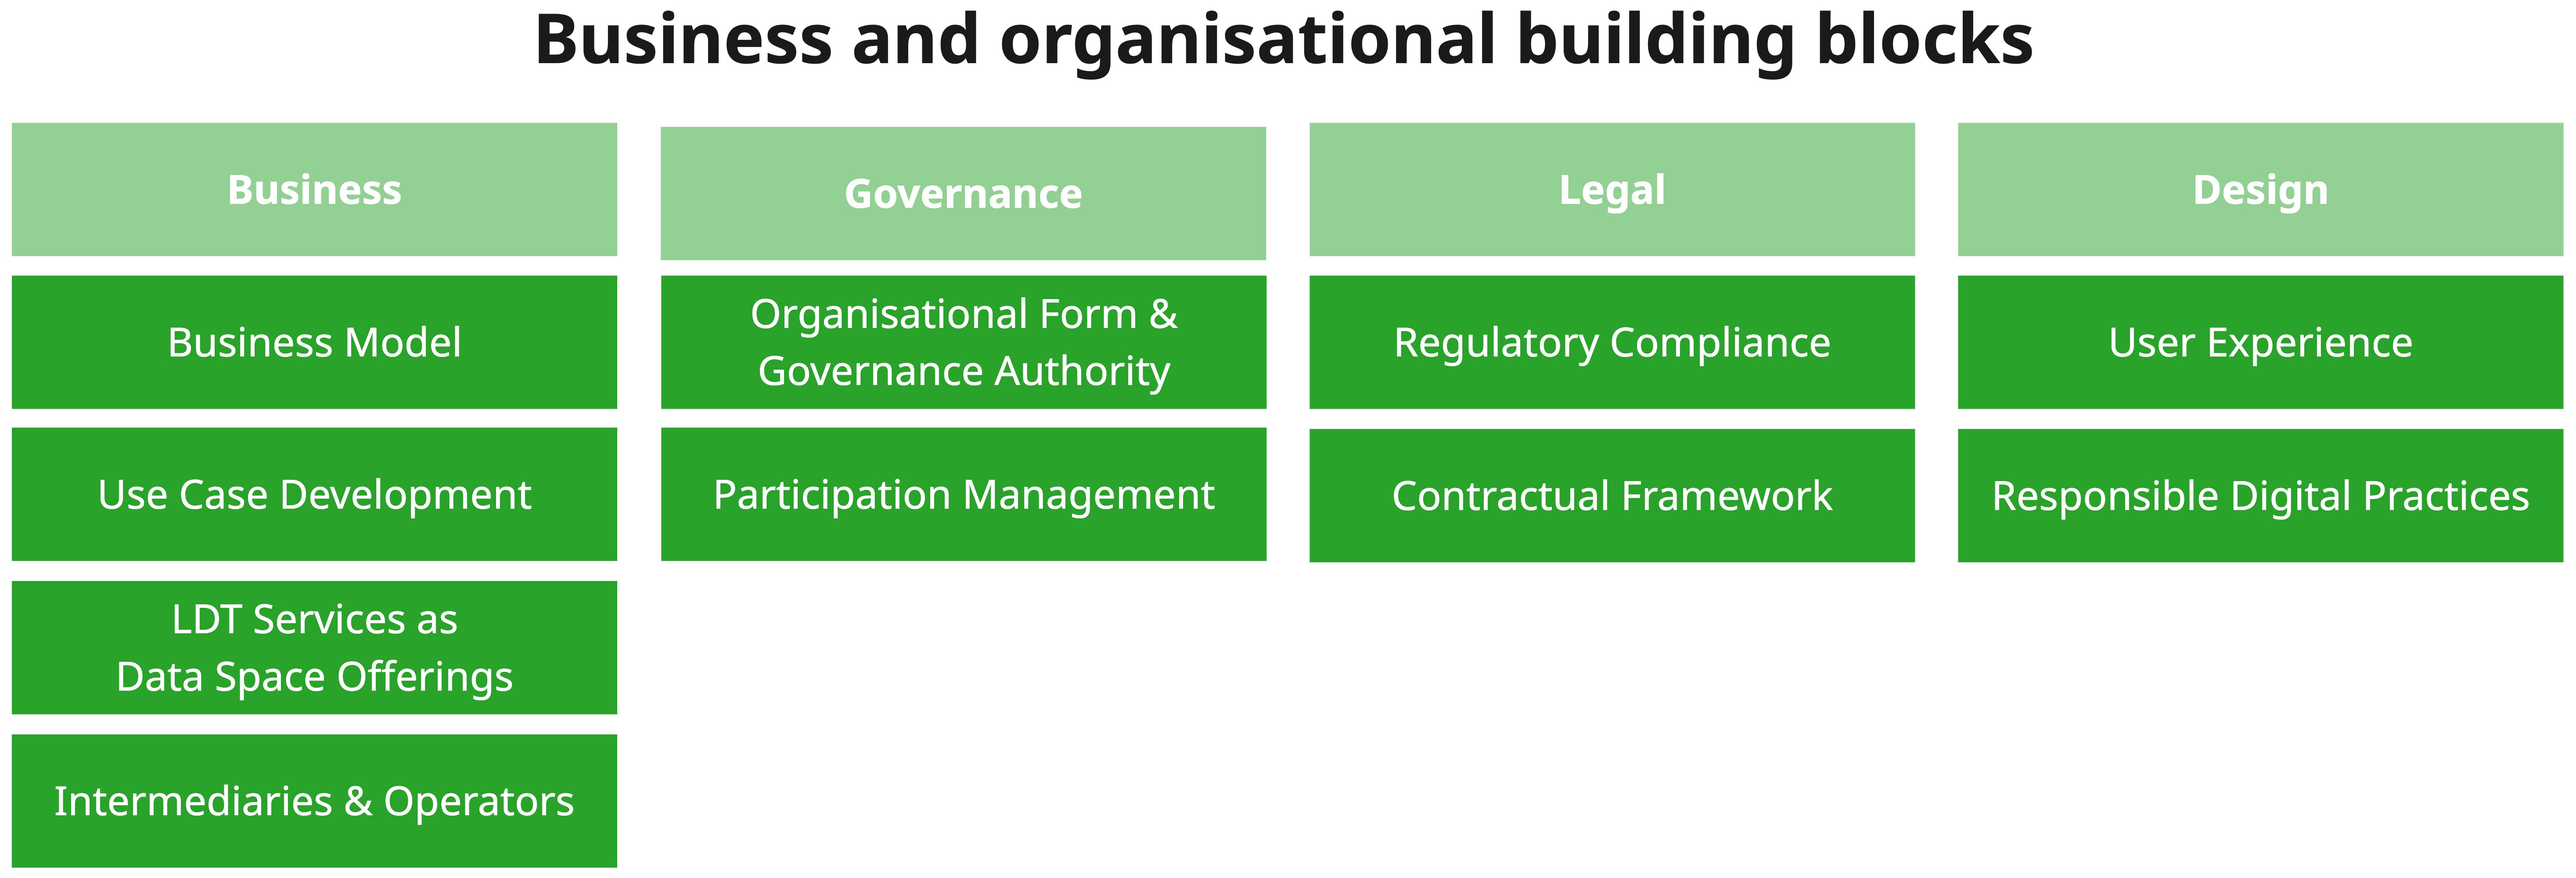
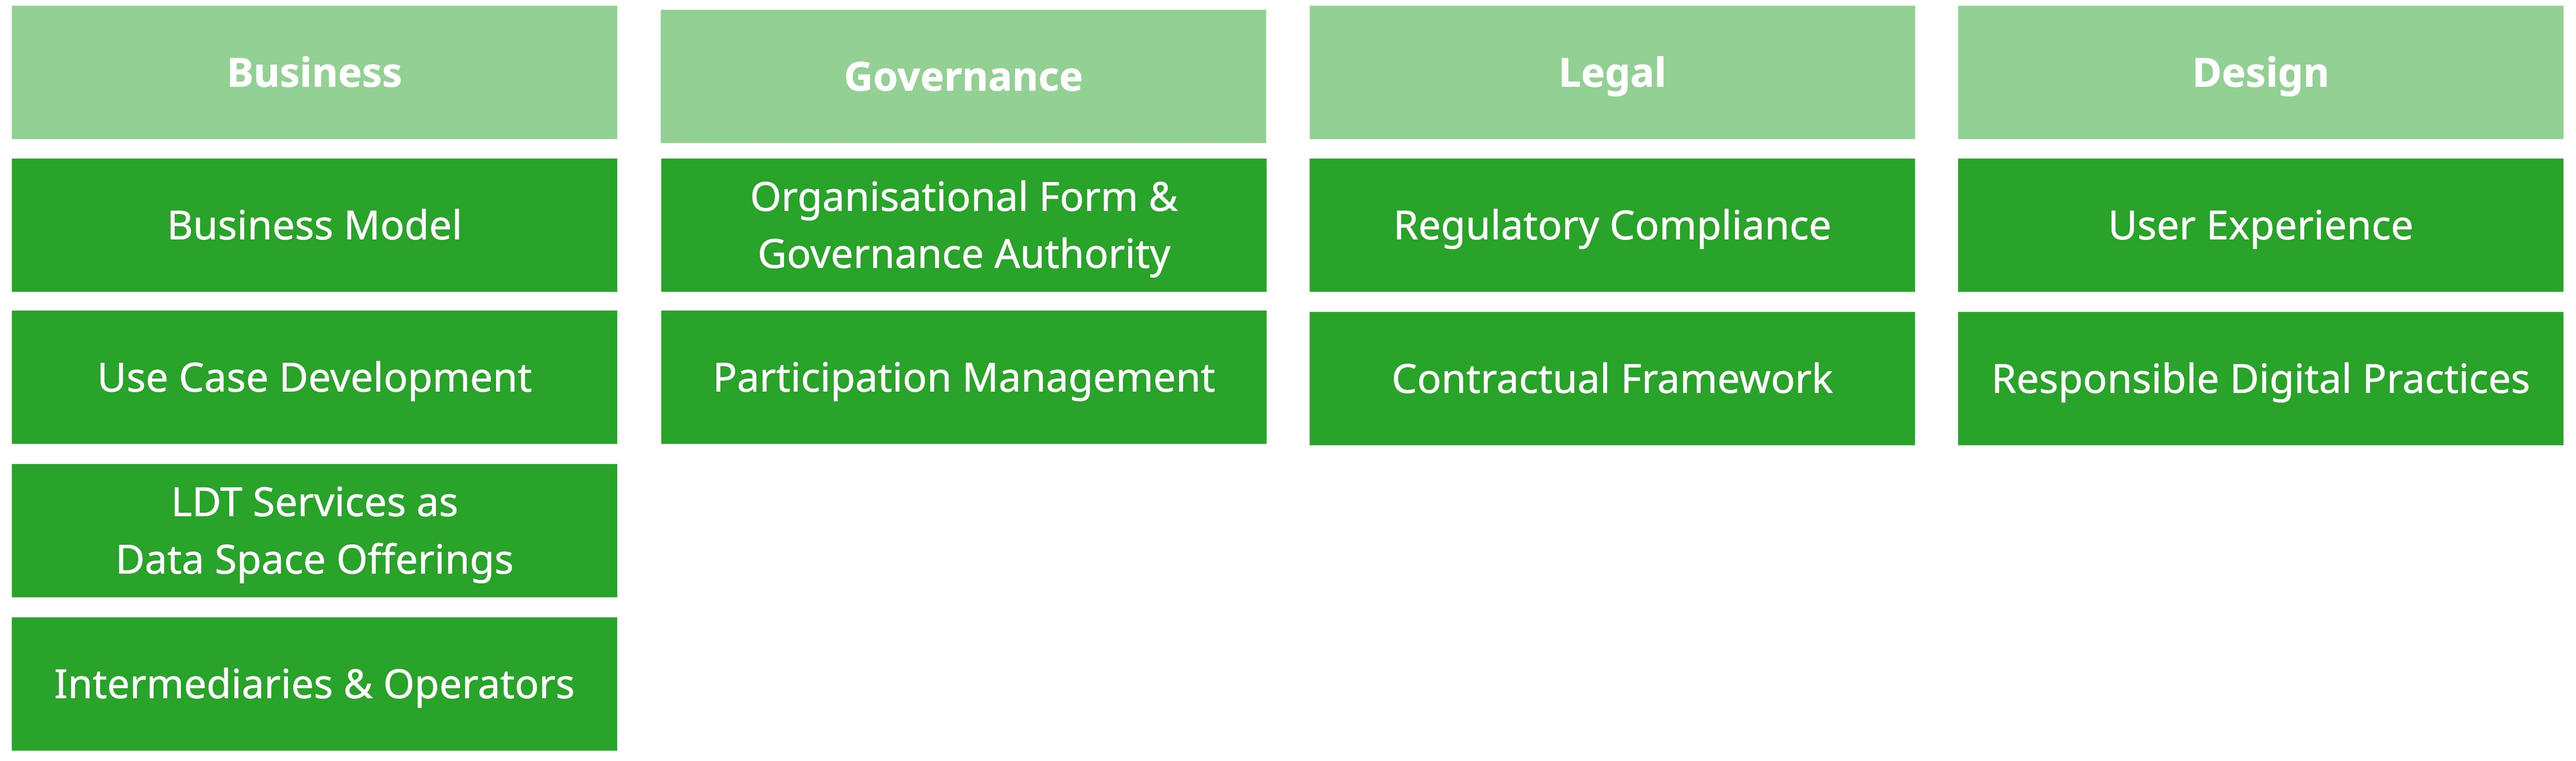
Fix typos in technical architecture Removed titles from building block images

diff --git a/dist/index.html b/dist/index.html
@@ -2325,7 +2325,7 @@ LDTs or interconnecting LDTs.
 four pillars: business, governance, legal and design.</p>
    <figure id="fig-img-business-organisational-building-blocks">
     
-  <img alt height="2002" id="img-business-organisational-building-blocks" src="img/business-organisational-building-blocks.jpg" width="5868">
+  <img alt height="1735" id="img-business-organisational-building-blocks" src="img/business-organisational-building-blocks.jpg" width="5868">
   
     <figcaption>
     Business and organisational building blocks,
@@ -2478,7 +2478,7 @@ emphasising their connections and relevance for LDTs interoperability.</p>
 which we will discuss in detail next.</p>
    <figure id="fig-img-technical-building-blocks">
     
-  <img alt height="1885" id="img-technical-building-blocks" src="img/technical-building-blocks.jpg" width="6301">
+  <img alt height="1678" id="img-technical-building-blocks" src="img/technical-building-blocks.jpg" width="6301">
   
     <figcaption>
     Technical LDT building blocks aligned with the LDT levels,
@@ -2818,7 +2818,7 @@ Note that this architecture focuses on the different artefacts, components, and 
 It doesn’t say anything about which parties deploy which components where.</p>
    <figure id="fig-technical-architecture">
     
-  <img alt height="3859" id="img-technical-architecture" src="img/technical-architecture.jpg" width="3942">
+  <img alt height="3956" id="img-technical-architecture" src="img/technical-architecture.jpg" width="4044">
 	
     <figcaption>
 		The technical architecture expands the high-level overview of an LDT.

diff --git a/CHANGELOG.md b/CHANGELOG.md
@@ -7,6 +7,14 @@ and this project adheres to [Semantic Versioning](https://semver.org/spec/v2.0.0
 
 ## Unreleased
 
+### Fixed
+
+- Typos in technical architecture
+
+### Changed
+
+- Removed titles from building block images
+
 ## [1.0.1] - 2026-05-18
 
 ### Added
